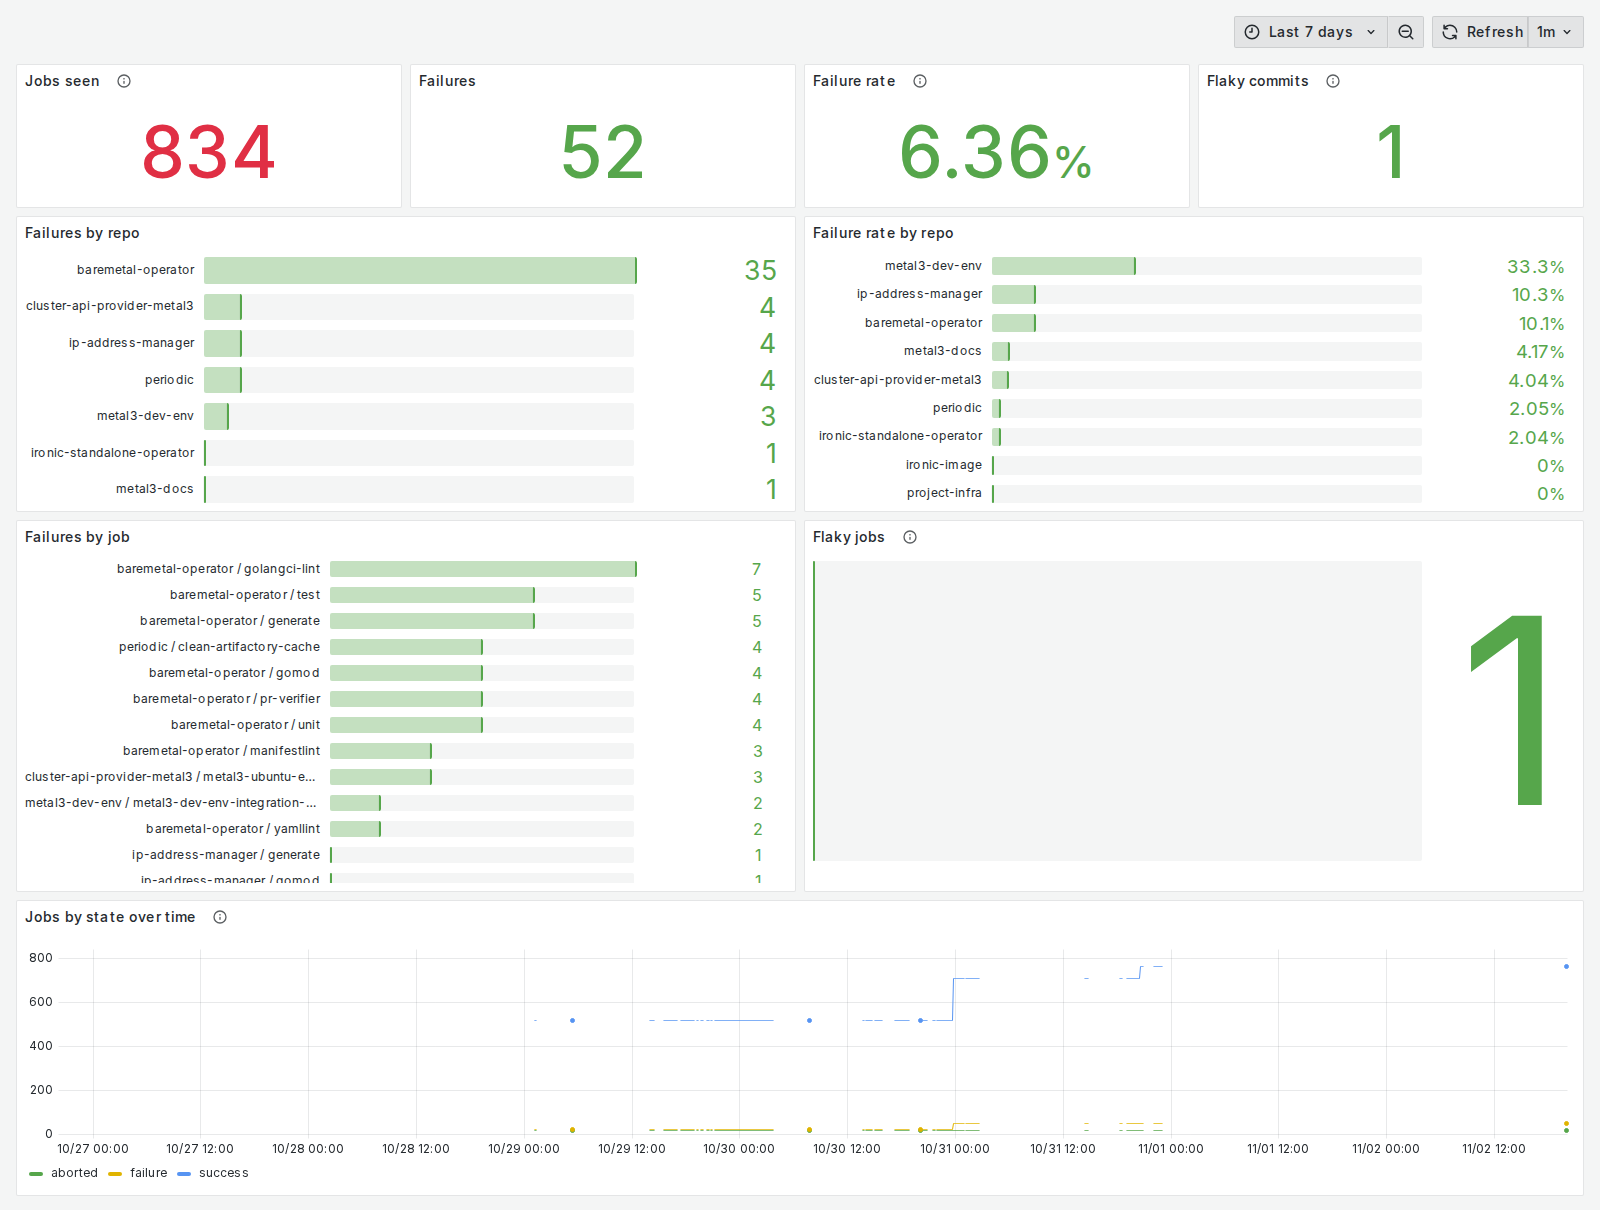
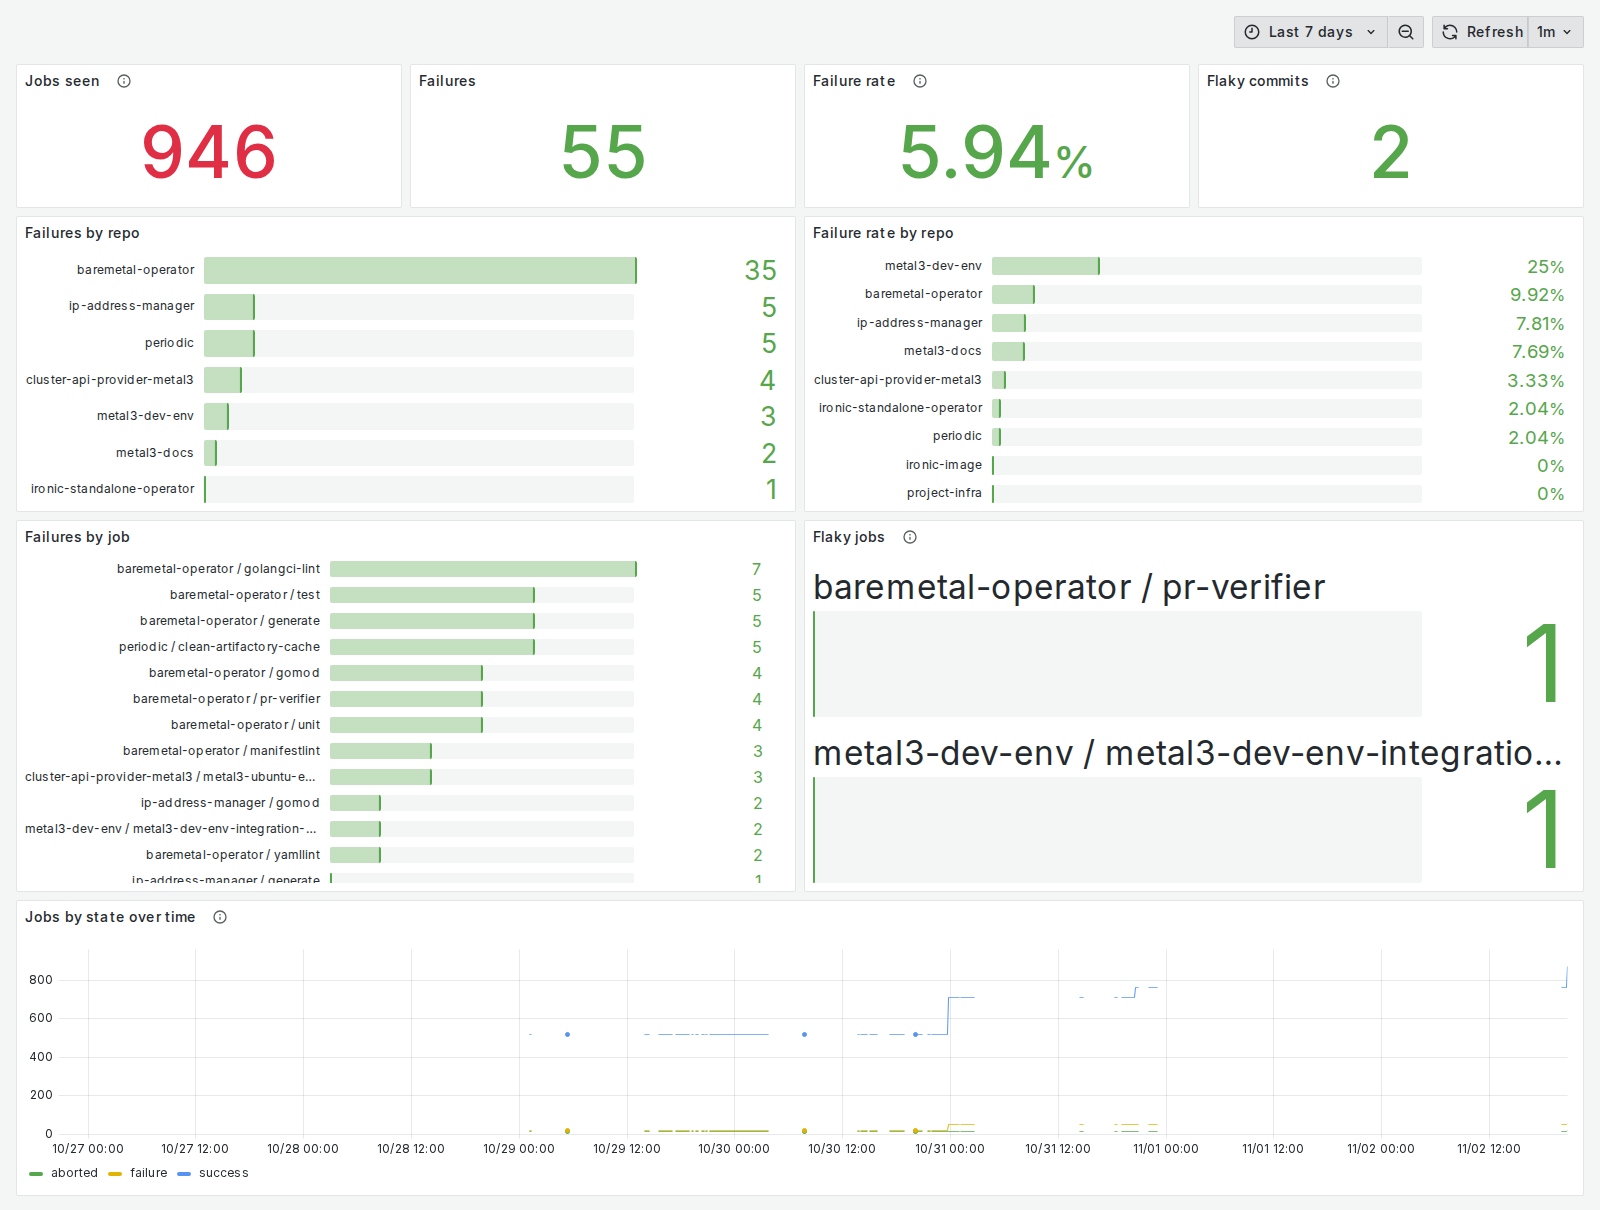
Retake screenshots: watcher running, failover after the health-check fix

diff --git a/README.md b/README.md
@@ -34,9 +34,9 @@ flowchart LR
 
 Each triaged failure is one trace in Jaeger: a root span with the Prow job details, then `filter`, one `llm` span per attempt (a failed attempt is marked as an error), then `verify`. LLM spans carry the OpenTelemetry GenAI attributes (`gen_ai.request.model`, `gen_ai.usage.input_tokens`, `gen_ai.usage.output_tokens`) plus latency, time to first token and tokens per second.
 
-![Jaeger trace of one triaged failure](docs/jaeger-trace.png)
+![Jaeger trace of one watcher poll](docs/jaeger-trace.png)
 
-*One failure in Jaeger, taken with the model server switched off. The server attempt (red) fails, the API model answers in 23.6 s, and `verify` checks its citations.*
+*One watcher poll in Jaeger, taken with the model server switched off. `collect` finds two new failures. For the first, the server attempt (red) fails its 2 s health check and the API model answers; for the second, the circuit breaker skips the server and goes straight to the API. Each answer ends with `verify` checking its citations.*
 
 ![Grafana CI health dashboard](docs/grafana-ci-health.png)
 
@@ -44,7 +44,7 @@ Each triaged failure is one trace in Jaeger: a root span with the Prow job detai
 
 ![Grafana LLM triage dashboard](docs/grafana-triage.png)
 
-*The LLM triage dashboard. The watcher panel is red because the watcher had been stopped for two days when this was taken. Accuracy here counts all labelled failures, including merge conflicts, so it differs from the tables below.*
+*The LLM triage dashboard. Accuracy here counts all labelled failures, including merge conflicts, so it differs from the tables below.*
 
 ## Results
 
